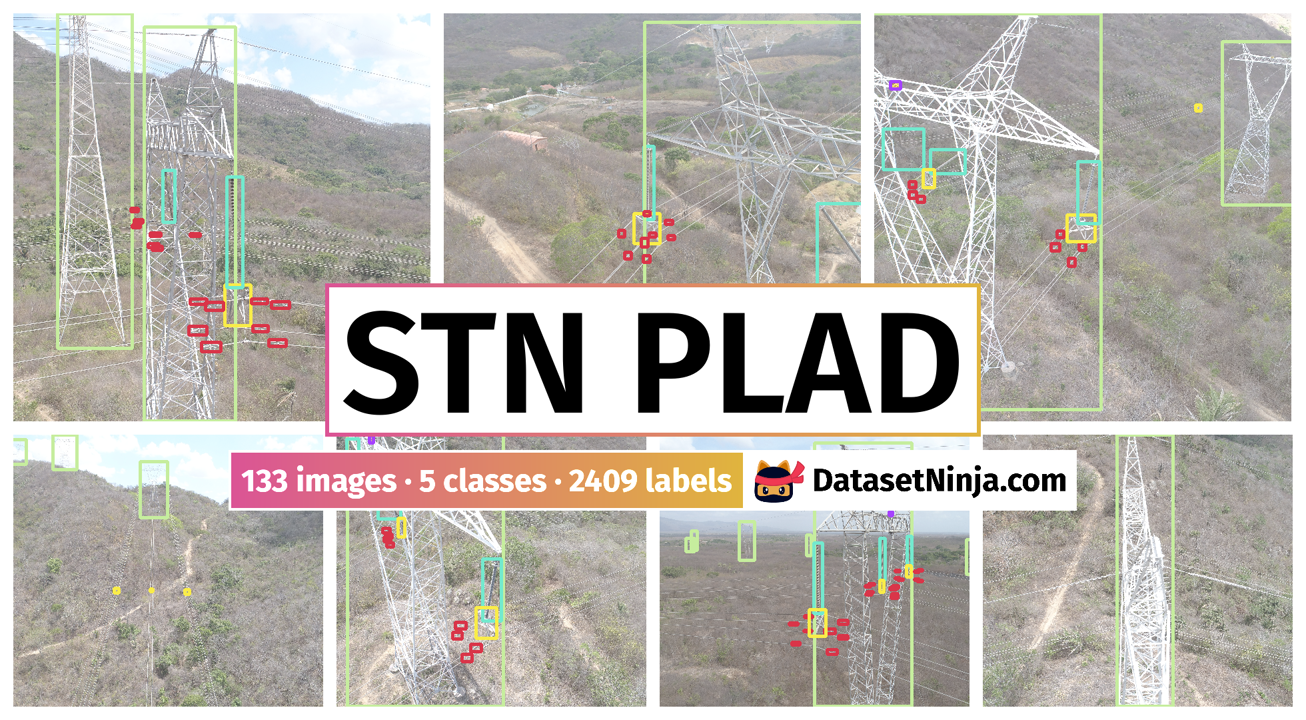
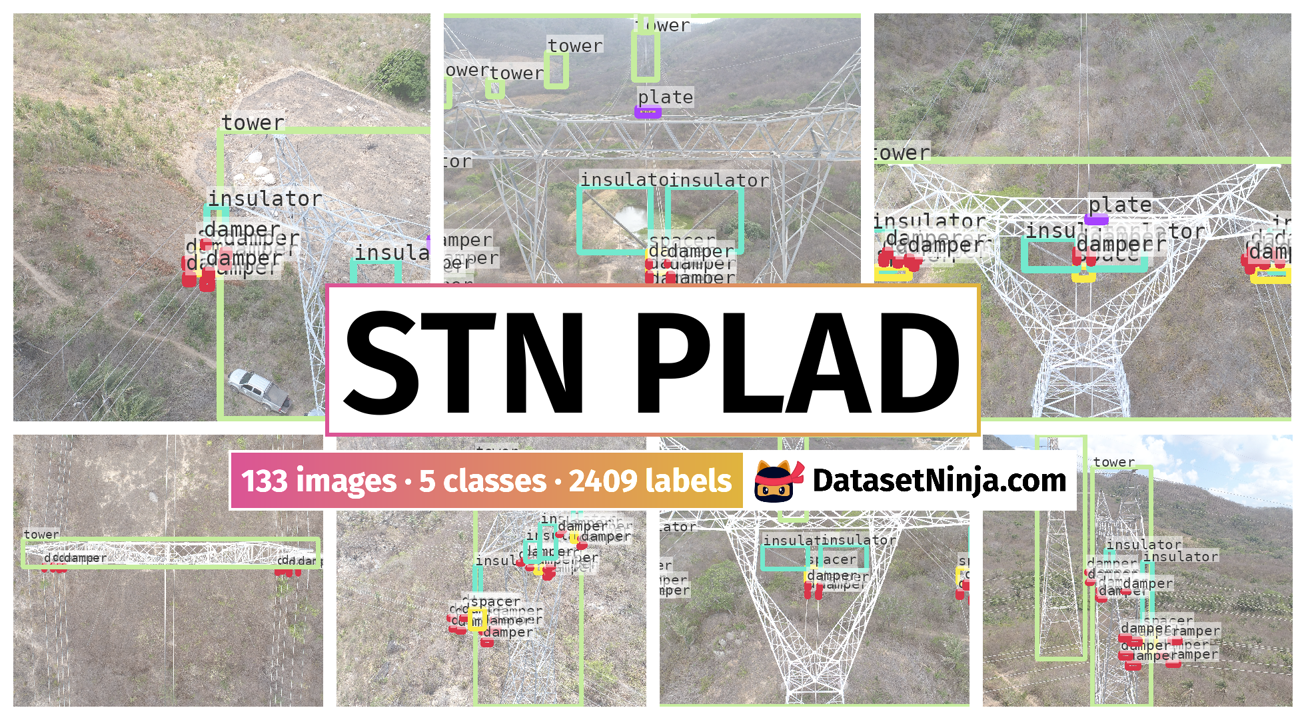
upd custom data

diff --git a/src/settings.py b/src/settings.py
@@ -1,6 +1,14 @@
 from typing import Dict, List, Optional, Union
 
-from dataset_tools.templates import AnnotationType, CVTask, Industry, License
+from dataset_tools.templates import (
+    AnnotationType,
+    Category,
+    CVTask,
+    Domain,
+    Industry,
+    License,
+    Research,
+)
 
 ##################################
 # * Before uploading to instance #
@@ -14,11 +22,16 @@ PROJECT_NAME_FULL: Optional[
 # * After uploading to instance ##
 ##################################
 LICENSE: License = License.GNU_GPL_v3()
-INDUSTRIES: List[Industry] = Industry.Energy()
+APPLICATIONS: List[Union[Industry, Domain, Research]] = [Industry.Energy()]
+CATEGORY: Category = Category.EnergyAndUtilities()
+
 CV_TASKS: List[CVTask] = [CVTask.ObjectDetection()]
 ANNOTATION_TYPES: List[AnnotationType] = [AnnotationType.ObjectDetection()]
 
-RELEASE_YEAR: int = 2021
+RELEASE_DATE: Optional[str] = "2021-09-10"  # e.g. "YYYY-MM-DD"
+if RELEASE_DATE is None:
+    RELEASE_YEAR: int = None
+
 HOMEPAGE_URL: str = "https://github.com/andreluizbvs/PLAD"
 # e.g. "https://some.com/dataset/homepage"
 
@@ -42,10 +55,24 @@ CLASS2COLOR: Optional[Dict[str, List[str]]] = None
 
 PAPER: Optional[str] = "https://arxiv.org/pdf/2108.07944.pdf"
 CITATION_URL: Optional[str] = "https://github.com/andreluizbvs/PLAD#citing"
+AUTHORS: Optional[List[str]] = [
+    "Vieira-e-Silva, André Luiz Buarque",
+    "de Castro Felix, Heitor",
+    "de Menezes Chaves, Thiago",
+    "Simões, Francisco Paulo Magalhães",
+    "Teichrieb, Veronica",
+    "dos Santos, Michel Mozinho",
+    "da Cunha Santiago, Hemir",
+    "Sgotti, Virginia Adélia Cordeiro",
+    "Neto, Henrique Baptista Duffles Teixeira Lott",
+]
+
 ORGANIZATION_NAME: Optional[
     Union[str, List[str]]
 ] = "Sistema de Transmissão do Nordeste S.A., Brazil"
 ORGANIZATION_URL: Optional[Union[str, List[str]]] = "https://stnordeste.com.br/"
+
+SLYTAGSPLIT: Optional[Dict[str, List[str]]] = None
 TAGS: List[str] = None
 
 ##################################
@@ -60,10 +87,15 @@ def check_names():
 
 
 def get_settings():
+    if RELEASE_DATE is not None:
+        global RELEASE_YEAR
+        RELEASE_YEAR = int(RELEASE_DATE.split("-")[0])
+
     settings = {
         "project_name": PROJECT_NAME,
         "license": LICENSE,
-        "industries": INDUSTRIES,
+        "applications": APPLICATIONS,
+        "category": CATEGORY,
         "cv_tasks": CV_TASKS,
         "annotation_types": ANNOTATION_TYPES,
         "release_year": RELEASE_YEAR,
@@ -75,13 +107,16 @@ def get_settings():
     if any([field is None for field in settings.values()]):
         raise ValueError("Please fill all fields in settings.py after uploading to instance.")
 
+    settings["release_date"] = RELEASE_DATE
     settings["project_name_full"] = PROJECT_NAME_FULL or PROJECT_NAME
     settings["download_original_url"] = DOWNLOAD_ORIGINAL_URL
     settings["class2color"] = CLASS2COLOR
     settings["paper"] = PAPER
     settings["citation_url"] = CITATION_URL
+    settings["authors"] = AUTHORS
     settings["organization_name"] = ORGANIZATION_NAME
     settings["organization_url"] = ORGANIZATION_URL
-    settings["tags"] = TAGS if TAGS is not None else []
+    settings["slytagsplit"] = SLYTAGSPLIT
+    settings["tags"] = TAGS
 
     return settings

diff --git a/src/options.py b/src/options.py
@@ -4,9 +4,9 @@
 
 # * Literal["ClassesPreview", "HorizontalGrid", "SideAnnotationsGrid"]
 # * If None, then preview_class will be set automatically to "ClassesPreview"
-PREVIEW_CLASS = "HorizontalGrid"
+PREVIEW_CLASS = "Poster"
 
-IS_DETECTION_TASK: bool = None  # ? Set True if you want to visualize only bbox annotations
+IS_DETECTION_TASK: bool = True  # ? Set True if you want to visualize only bbox annotations
 
 ###############################################################
 ####### * Set up visualization params for Poster class ########

diff --git a/SUMMARY.md b/SUMMARY.md
@@ -1,9 +1,7 @@
-**STN PLAD: A Dataset for Multi-Size Power Line Assets Detection in High-Resolution UAV Images** is a dataset for object detection tasks. It is used in the energy industry.
+**STN PLAD: A Dataset for Multi-Size Power Line Assets Detection in High-Resolution UAV Images** is a dataset for object detection tasks. It is used in the energy industry. 
 
 The dataset consists of 133 images with 2409 labeled objects belonging to 5 different classes including *tower*, *damper*, *insulator*, and other: *spacer* and *plate*.
 
-Each image in the STN PLAD dataset has bounding boxes annotations. All images are labeled (i.e. with annotations). There is 1 split in the dataset: *ds* (133 images). The dataset was released in 2021 by the [Sistema de Transmissão do Nordeste S.A., Brazil](https://stnordeste.com.br/).
+Images in the STN PLAD dataset have bounding box annotations. All images are labeled (i.e. with annotations). There are no pre-defined <i>train/val/test</i> splits in the dataset. The dataset was released in 2021 by the [Sistema de Transmissão do Nordeste S.A., Brazil](https://stnordeste.com.br/).
 
-Here is the visualized example grid with annotations:
-
-<img src="https://github.com/dataset-ninja/stn-plad/raw/main/visualizations/horizontal_grid.png">
+<img src="https://github.com/dataset-ninja/stn-plad/raw/main/visualizations/poster.png">
